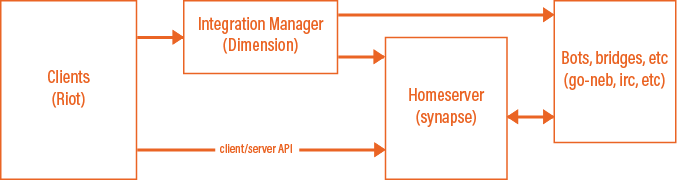
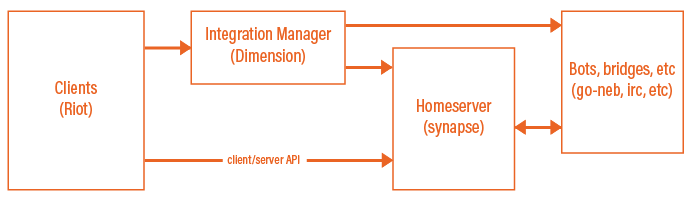
Update the infrastructure diagram

Changed region(s): [[0.0, 0.0, 1.0, 1.0], [0.062, 0.3889, 0.1551, 0.6111]]

diff --git a/README.md b/README.md
@@ -86,7 +86,7 @@ Integration managers aim to ease a user's interaction with the various services 
 Integration managers sit between your users and your integrations (bots, bridges, etc). It helps guide users through the configuration of your integrations for their rooms. The integrations manager can only manage integrations it is configured for. For example, Modular can only provide configuration for the bridges and bots running on matrix.org, while Dimension can provide configuration for your own bots and bridges.
 
 The infrastructure diagram looks something like this:
-![infrastructure](https://t2bot.io/_matrix/media/r0/download/t2l.io/9c8ae7d5dfc9f0959c4764873e940416)
+![infrastructure](https://t2bot.io/_matrix/media/r0/download/t2l.io/3bb5674d85ee22c070e36be0d9582b4d)
 
 # License
 
